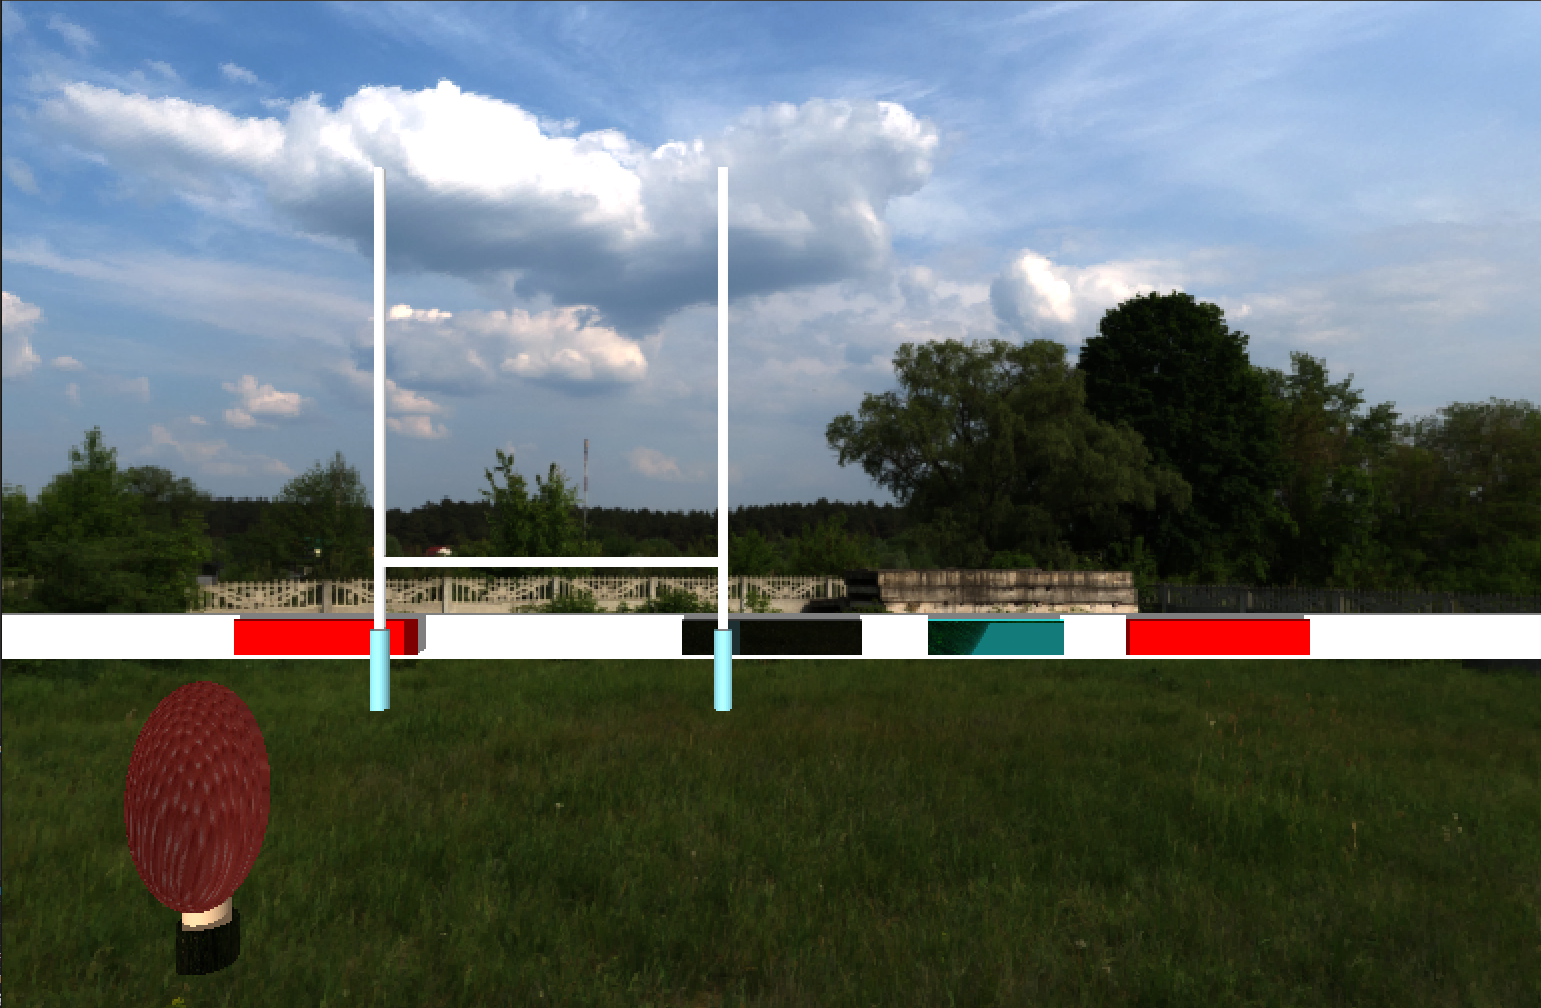
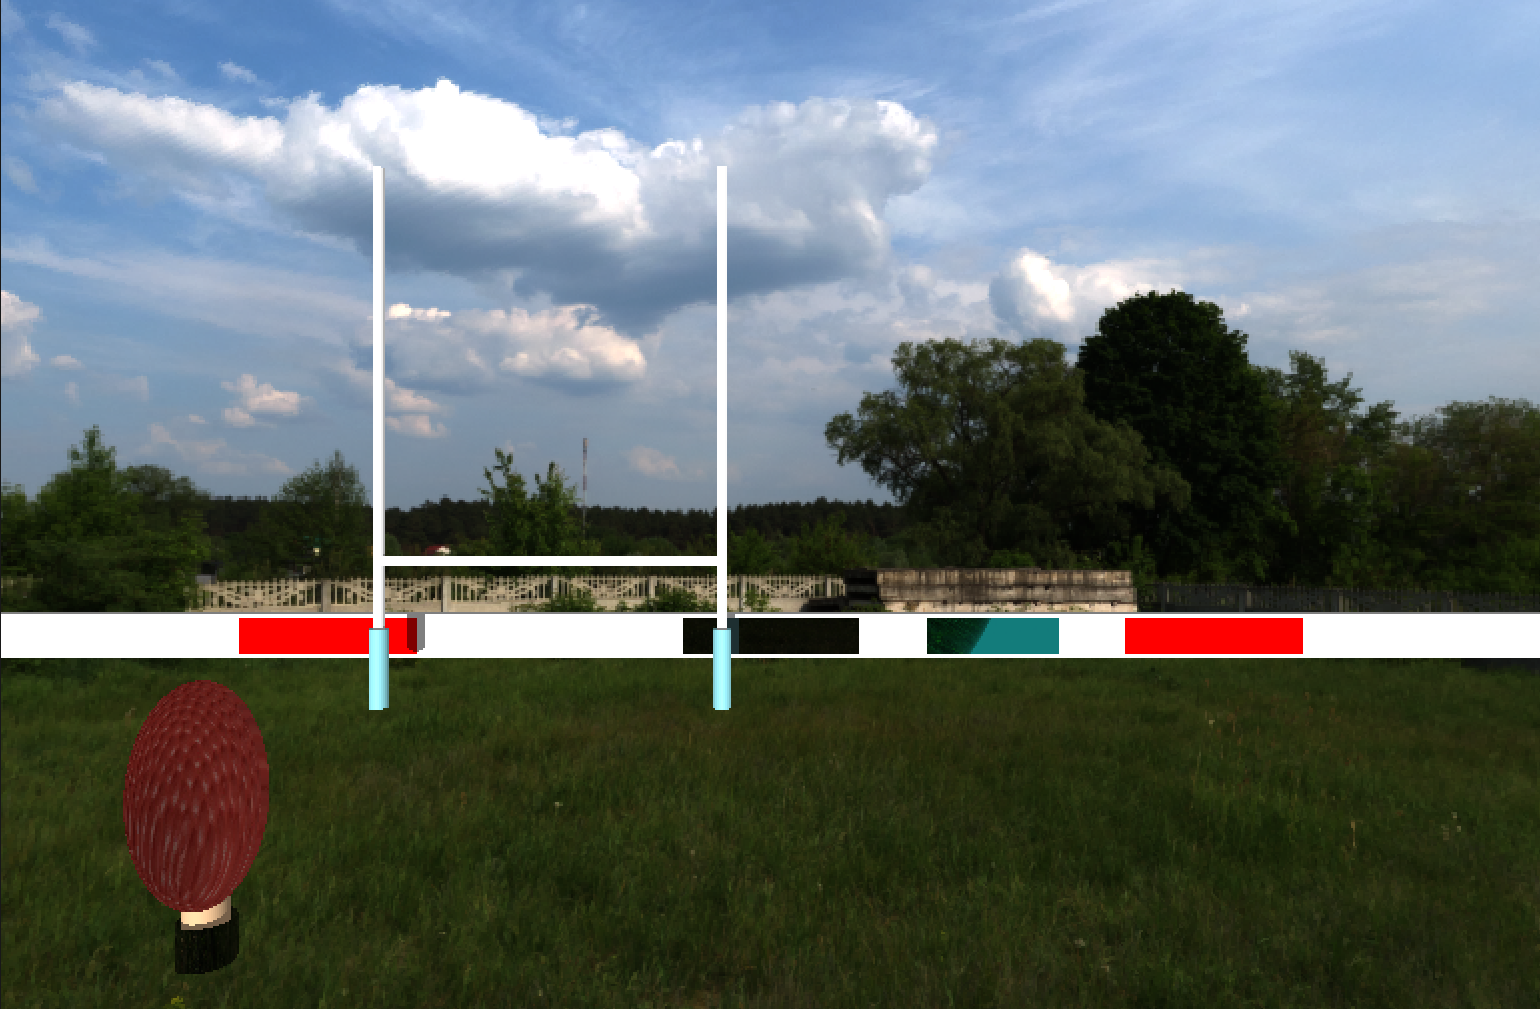
Cambios esteticos

diff --git a/Main.py b/Main.py
@@ -46,10 +46,10 @@ objetos = [
             Cylinder(position=(-10.5,-7.5,-16), radius=0.4, height=0.5, material=cuero), #Tee cuero
             Cylinder(position=(-10.5,-8,-16), radius=0.5, height=0.8, material=negro), #Tee cuero
             AABB(position=(0,-14,-100), size=(175,5,1), material=blanco), #Valla publicitaria
-            AABB(position=(50,-14,-99), size=(20,4,1), material=red), #Valla publicitaria, anuncio
-            AABB(position=(-50,-14,-99), size=(20,4,1), material=red), #Valla publicitaria, anuncio
-            AABB(position=(25,-14,-99), size=(15,4,1), material=glass), #Valla publicitaria, anuncio
-            AABB(position=(0,-14,-99), size=(20,4,1), material=mirror), #Valla publicitaria, anuncio
+            AABB(position=(50,-14,-99.99), size=(20,4,1), material=red), #Valla publicitaria, anuncio
+            AABB(position=(-50,-14,-99.99), size=(20,4,1), material=red), #Valla publicitaria, anuncio
+            AABB(position=(25,-14,-99.99), size=(15,4,1), material=glass), #Valla publicitaria, anuncio
+            AABB(position=(0,-14,-99.99), size=(20,4,1), material=mirror), #Valla publicitaria, anuncio
             Cylinder(position=(-40,-16,-90), radius=1, height=8, material=celeste), #Poste izquierdo, parte inferior
             Cylinder(position=(-5,-16,-90), radius=1, height=8, material=celeste), #Poste derecho, parte inferior
             Cylinder(position=(-40,10,-90), radius=0.6, height=50, material=blanco), #Poste izquierdo, parte superior
